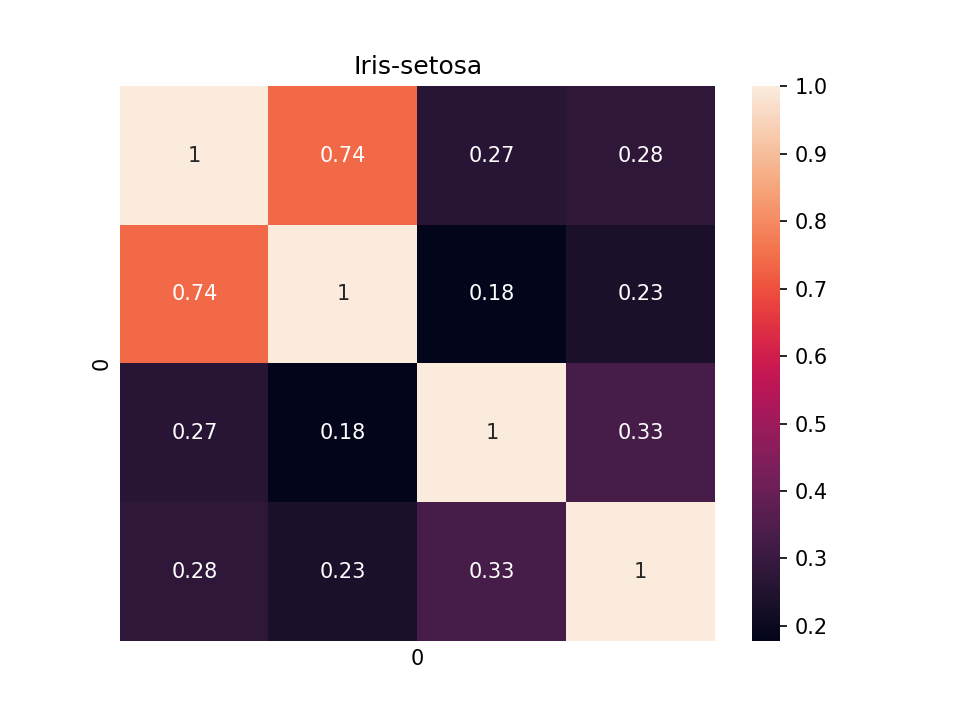
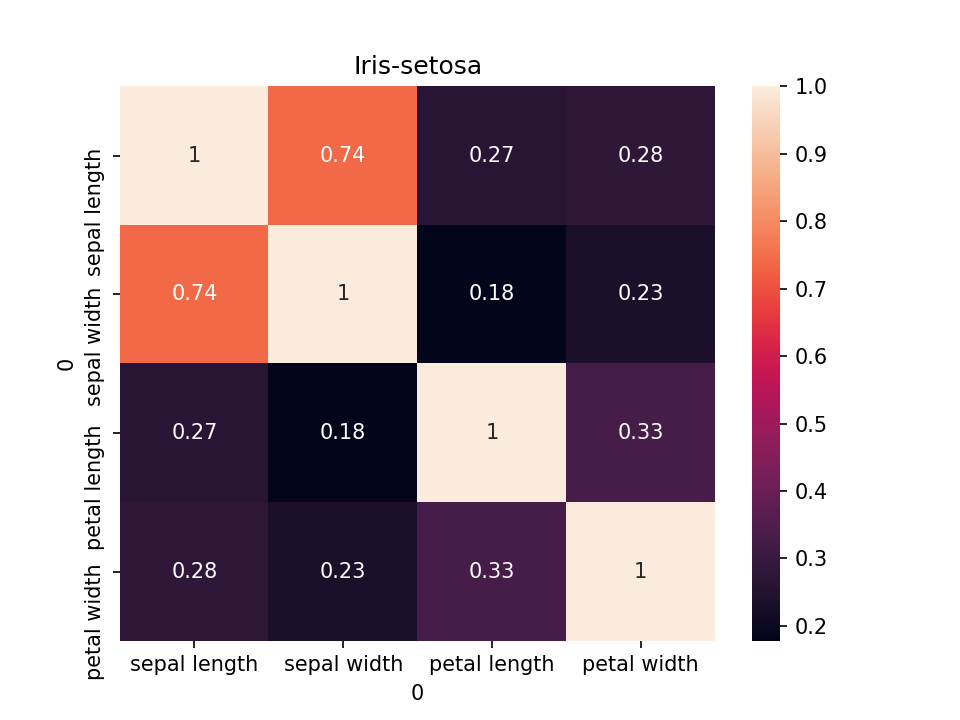
Normality test added to check if data is following Gausian distribution

diff --git a/Code/analysis.py b/Code/analysis.py
@@ -8,6 +8,7 @@ import sys
 import matplotlib.pyplot as plt
 import seaborn as sbr
 from fishermodule import *
+from scipy.stats import normaltest
 
 # this function will read data from the data files and will return pandas data frame df
 def getdata(datapath):
@@ -56,6 +57,17 @@ def outsummary(subset, outpath):
     # calculate mean +/- 3*std, where we expect to find 99.7% of obeservations (only if data is distributed normally)
     stats['Mean - 3std'] = stats['Mean'] - stats['Std dev'] * 3
     stats['Mean + 3std'] = stats['Mean'] + stats['Std dev'] * 3
+
+    # normality test as per:https://machinelearningmastery.com/a-gentle-introduction-to-normality-tests-in-python/
+    # and https://docs.scipy.org/doc/scipy/reference/generated/scipy.stats.normaltest.html
+    for classtype in subset['class'].unique():
+        class_subset = subset[subset['class'] == classtype]
+        
+        # Calculate normality test for each class separately
+        stat, p = normaltest(class_subset[atribute])
+        # access single cell in the data frame: https://kanoki.org/2019/04/12/pandas-how-to-get-a-cell-value-and-update-it/
+        stats.at[classtype,'Statistics'] = stat
+        stats.at[classtype,'pValue'] = p
 
     # Change current folder to /Out folder (as per https://docs.python.org/3/library/os.html#os-file-dir)
     os.chdir(outpath)
@@ -164,6 +176,9 @@ for column in iris.columns:
 # Exploratory analysis as per: https://www.youtube.com/watch?v=-o3AxdVcUtQ
 verbose("Descriptive statistics: ")
 with open(os.path.join(outfolder, "Summary.txt") , "a") as outfile:
+    outfile.write("\n\nSimple descriptive statistics for the whole data set\n\n")
+    iris.describe().to_string(outfile)
+    outfile.write("\n\nSimple descriptive statistics groupped by Class\n\n")
     iris.groupby("class").describe().to_string(outfile)
 
 verbose()
@@ -182,8 +197,7 @@ for classtype in classes:
         correlation.to_string(outfile)
     # add title to heatmap correlation graphs as per https://stackoverflow.com/questions/32723798/how-do-i-add-a-title-to-seaborn-heatmap
     ax=plt.axes()
-    # sbr.heatmap(correlation, xticklabels=correlation.columns, yticklabels=correlation.columns, annot=True)
-    sbr.heatmap(correlation, xticklabels=False, yticklabels=False, annot=True)
+    sbr.heatmap(correlation, xticklabels=correlation.columns, yticklabels=correlation.columns, annot=True)
     ax.set_title(classtype)
     plt.savefig(classtype +' Correlation heat map.png', dpi=150)
     plt.close()
